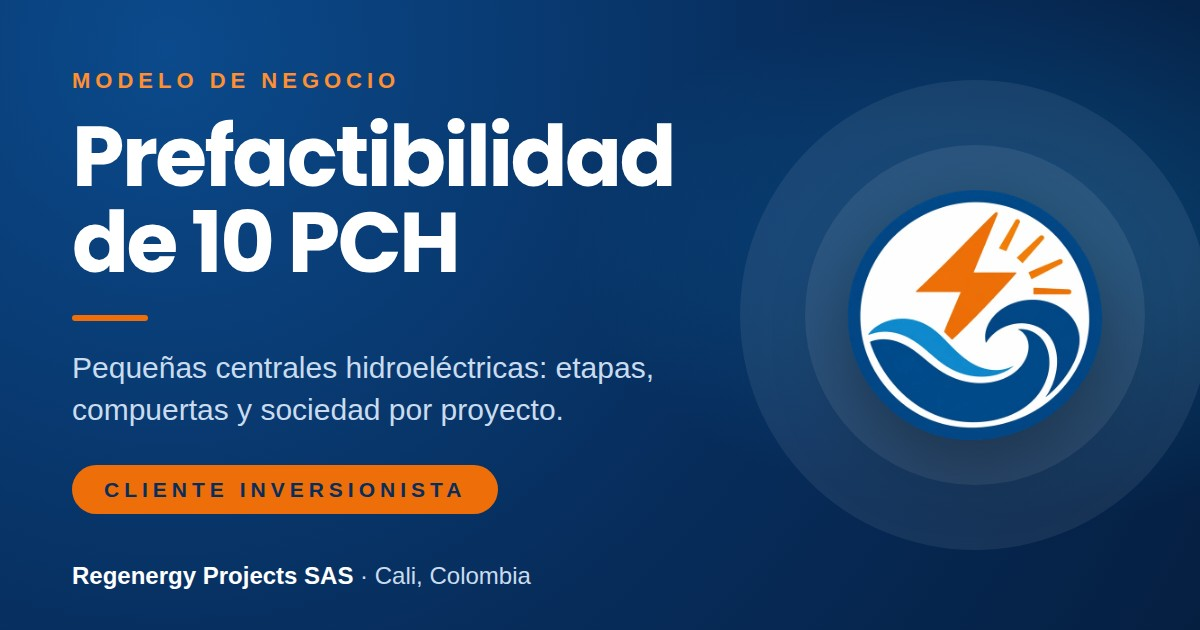
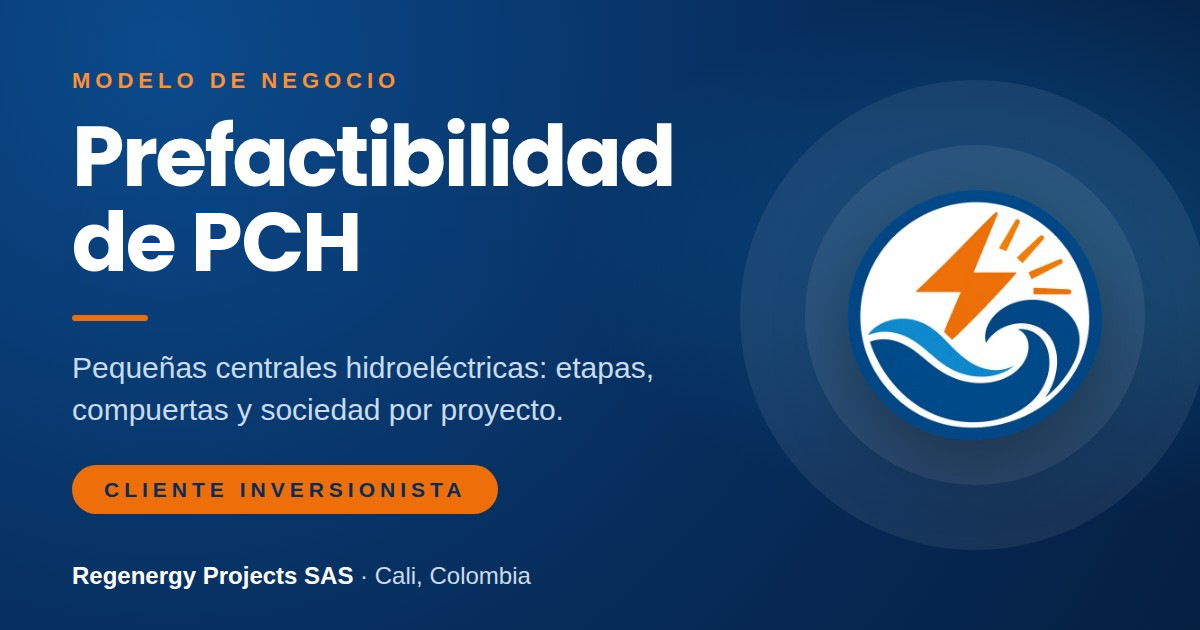
Página de inversionistas: número de proyectos y sitios a elección del Cliente
Quita la orientación fija a 10 PCH / 10 sitios / estimado de 4 sitios en el
título, subtítulos, metadescripciones, cifras, tarjeta de modelo, flujo y
alcance por etapas; elimina la mención al proveedor del modelo de elevación y
regenera la imagen de vista previa (og-inversionistas.jpg).

Claude-Session: https://claude.ai/code/session_01FagwTUnTUEwCBVF9PmGaFj

Changed region(s): [[0.0617, 0.3317, 0.4008, 0.4524]]

diff --git a/inversionistas.html b/inversionistas.html
@@ -4,7 +4,7 @@
 <meta charset="utf-8">
 <meta name="viewport" content="width=device-width, initial-scale=1, viewport-fit=cover">
 <title>Regenergy Projects · Modelo de negocio para inversionistas</title>
-<meta name="description" content="Modelo de negocio de Regenergy Projects para inversionistas: prefactibilidad de 10 pequeñas centrales hidroeléctricas por etapas, compuertas de decisión y sociedad (SAS) por proyecto.">
+<meta name="description" content="Modelo de negocio de Regenergy Projects para inversionistas: prefactibilidad de pequeñas centrales hidroeléctricas por etapas, con los proyectos y sitios que el Cliente escoja de la cartera, compuertas de decisión y sociedad (SAS) por proyecto.">
 <meta name="robots" content="noindex, nofollow">
 <meta name="theme-color" content="#072D5C">
 <link rel="icon" type="image/png" href="assets/logo-regenergy-256.png">
@@ -13,7 +13,7 @@
 <meta property="og:locale" content="es_CO">
 <meta property="og:site_name" content="Regenergy Projects">
 <meta property="og:title" content="Regenergy Projects · Modelo de negocio para inversionistas">
-<meta property="og:description" content="Prefactibilidad de 10 pequeñas centrales hidroeléctricas: etapas, compuertas de decisión y sociedad por proyecto.">
+<meta property="og:description" content="Prefactibilidad de pequeñas centrales hidroeléctricas a la medida: el Cliente escoge cuántos proyectos y cuáles sitios; etapas, compuertas de decisión y sociedad por proyecto.">
 <meta property="og:url" content="https://hernandoarteaga.github.io/REGENERGY-PROJECTS/inversionistas.html">
 <meta property="og:image" content="https://hernandoarteaga.github.io/REGENERGY-PROJECTS/assets/og-inversionistas.jpg">
 <meta property="og:image:type" content="image/jpeg">
@@ -444,9 +444,9 @@ footer{background:#041A38;color:var(--on-dark);padding:36px 0 calc(36px + env(sa
   <div class="wrap hero__grid">
     <div class="hero__copy">
       <p class="eyebrow">Modelo de negocio</p>
-      <h1 id="h-hero" style="margin-top:18px">Prefactibilidad<br>de 10 PCH</h1>
+      <h1 id="h-hero" style="margin-top:18px">Prefactibilidad<br>de PCH</h1>
       <span class="rule" aria-hidden="true"></span>
-      <p class="hero__sub">Pequeñas centrales hidroeléctricas: etapas, compuertas de decisión y sociedad por proyecto.</p>
+      <p class="hero__sub">Pequeñas centrales hidroeléctricas: el Cliente escoge cuántos proyectos y cuáles sitios de la cartera, con etapas, compuertas de decisión y sociedad por proyecto.</p>
       <span class="pill">Cliente inversionista</span>
       <div class="cta">
         <a class="btn btn--orange" href="#mapa"><svg class="i" aria-hidden="true"><use href="#i-pin"/></svg>Explorar el mapa</a>
@@ -463,7 +463,7 @@ footer{background:#041A38;color:var(--on-dark);padding:36px 0 calc(36px + env(sa
   <div class="wrap">
     <ul class="stats" aria-label="Datos clave">
       <li><b>75</b><span>sitios en la cartera de Regenergy</span></li>
-      <li><b>10</b><span>sitios en la Etapa 1</span></li>
+      <li><b>Libre</b><span>número de sitios en la Etapa 1, a elección del Cliente</span></li>
       <li><b>2</b><span>compuertas de decisión</span></li>
       <li><b>3–7</b><span>años hasta construir</span></li>
     </ul>
@@ -519,9 +519,9 @@ footer{background:#041A38;color:var(--on-dark);padding:36px 0 calc(36px + env(sa
     <div class="cards3">
       <article class="card stat reveal">
         <p class="eyebrow">Alcance</p>
-        <p class="big">10</p>
-        <p class="unit">sitios de PCH</p>
-        <p>de la cartera de 75 sitios de Regenergy, con prefactibilidad en dos etapas.</p>
+        <p class="big">Libre</p>
+        <p class="unit">proyectos y sitios de PCH</p>
+        <p>Los que el Cliente escoja de la cartera de 75 sitios de Regenergy, con prefactibilidad en dos etapas.</p>
       </article>
       <article class="card stat reveal" style="--d:.1s">
         <p class="eyebrow">Proceso</p>
@@ -556,7 +556,7 @@ footer{background:#041A38;color:var(--on-dark);padding:36px 0 calc(36px + env(sa
       <p class="gl gl--b">Después del estudio</p>
 
       <div class="step step--1" role="listitem">
-        <div class="node node--1"><h3>Etapa 1</h3><p>Filtro de gabinete</p><p class="hl">10 sitios</p></div>
+        <div class="node node--1"><h3>Etapa 1</h3><p>Filtro de gabinete</p><p class="hl">Sitios a elección</p></div>
         <p class="cap"><b>Semanas 1 a 8</b>Compromiso firme</p>
       </div>
       <div class="step step--gate step--g1" role="listitem">
@@ -565,7 +565,7 @@ footer{background:#041A38;color:var(--on-dark);padding:36px 0 calc(36px + env(sa
       </div>
       <div class="step step--2" role="listitem">
         <div class="node node--2"><h3>Etapa 2</h3><p>Prefactibilidad con campo</p><p class="hl">Sitios activados</p></div>
-        <p class="cap"><b>Semanas 11 a 22</b>Si el Cliente la activa (estimado: 4 sitios)</p>
+        <p class="cap"><b>Semanas 11 a 22</b>Si el Cliente la activa, para los sitios que escoja</p>
       </div>
       <div class="step step--gate step--g2" role="listitem">
         <div class="gate"><span><small>Compuerta</small><b>2</b></span></div>
@@ -589,7 +589,7 @@ footer{background:#041A38;color:var(--on-dark);padding:36px 0 calc(36px + env(sa
     </div>
     <div class="stages">
       <article class="card stage stage--1 reveal">
-        <div class="stage__head"><h3>Etapa 1</h3><p>Filtro de gabinete</p><p class="hl">10 sitios</p></div>
+        <div class="stage__head"><h3>Etapa 1</h3><p>Filtro de gabinete</p><p class="hl">Sitios a elección del Cliente</p></div>
         <ul class="feat">
           <li><span class="chip"><svg class="i" aria-hidden="true"><use href="#i-cloud"/></svg></span>Hidrología</li>
           <li><span class="chip"><svg class="i" aria-hidden="true"><use href="#i-wrench"/></svg></span>Caída y obras</li>
@@ -598,11 +598,11 @@ footer{background:#041A38;color:var(--on-dark);padding:36px 0 calc(36px + env(sa
           <li><span class="chip"><svg class="i" aria-hidden="true"><use href="#i-globe"/></svg></span>Ambiental y predial</li>
           <li><span class="chip"><svg class="i" aria-hidden="true"><use href="#i-chart"/></svg></span>Costos y finanzas</li>
         </ul>
-        <p class="note grow">Modelo de elevación de 0,5 m de UP42 Vivid Terrain.</p>
+        <p class="note grow">Modelo de elevación de 0,5 m.</p>
         <div class="deliver">
           <h4>Entregables</h4>
           <ul>
-            <li><svg class="i" aria-hidden="true"><use href="#i-check"/></svg>Informe de filtro con ranking de los 10 sitios</li>
+            <li><svg class="i" aria-hidden="true"><use href="#i-check"/></svg>Informe de filtro con ranking de los sitios escogidos</li>
             <li><svg class="i" aria-hidden="true"><use href="#i-check"/></svg>Ficha por sitio</li>
             <li><svg class="i" aria-hidden="true"><use href="#i-check"/></svg>Libro de cálculo (Excel)</li>
             <li><svg class="i" aria-hidden="true"><use href="#i-check"/></svg>Recomendación de sitios para la Etapa 2</li>
@@ -610,7 +610,7 @@ footer{background:#041A38;color:var(--on-dark);padding:36px 0 calc(36px + env(sa
         </div>
       </article>
       <article class="card stage stage--2 reveal" style="--d:.12s">
-        <div class="stage__head"><h3>Etapa 2</h3><p>Prefactibilidad con campo</p><p class="hl">Estimado: 4 sitios</p></div>
+        <div class="stage__head"><h3>Etapa 2</h3><p>Prefactibilidad con campo</p><p class="hl">Sitios activados</p></div>
         <ul class="feat feat--long grow">
           <li><span class="chip"><svg class="i" aria-hidden="true"><use href="#i-search"/></svg></span>Visita de reconocimiento de 2 días</li>
           <li><span class="chip"><svg class="i" aria-hidden="true"><use href="#i-check"/></svg></span>Validación de la caída con GNSS/RTK (topógrafo subcontratado)</li>
